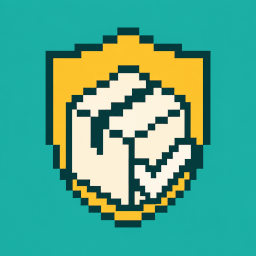
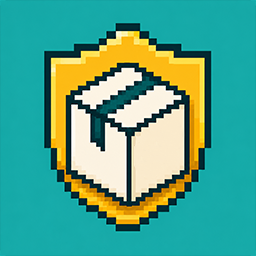
ui: remove packping detect

Changed region(s): [[0.1562, 0.0625, 0.8438, 0.9062]]

diff --git a/common/src/main/java/com/stromblex/vartapack/client/VartaPackIssuesScreen.java b/common/src/main/java/com/stromblex/vartapack/client/VartaPackIssuesScreen.java
@@ -281,16 +281,6 @@ public final class VartaPackIssuesScreen extends Screen {
             g.drawCenteredString(this.font,
                     Component.translatable(CommonTexts.CONTINUE_BLOCKED),
                     this.width / 2, infoY, 0xFFDD88);
-            return;
-        }
-        if (vm.packPingInstalled()) {
-            g.drawCenteredString(this.font,
-                    Component.translatable(CommonTexts.PACKPING_DETECTED),
-                    this.width / 2, infoY, 0x80FF80);
-        } else if (vm.packPingRecommended()) {
-            g.drawCenteredString(this.font,
-                    Component.translatable(CommonTexts.PACKPING_RECOMMENDED),
-                    this.width / 2, infoY, 0xA0A0A0);
         }
     }
 